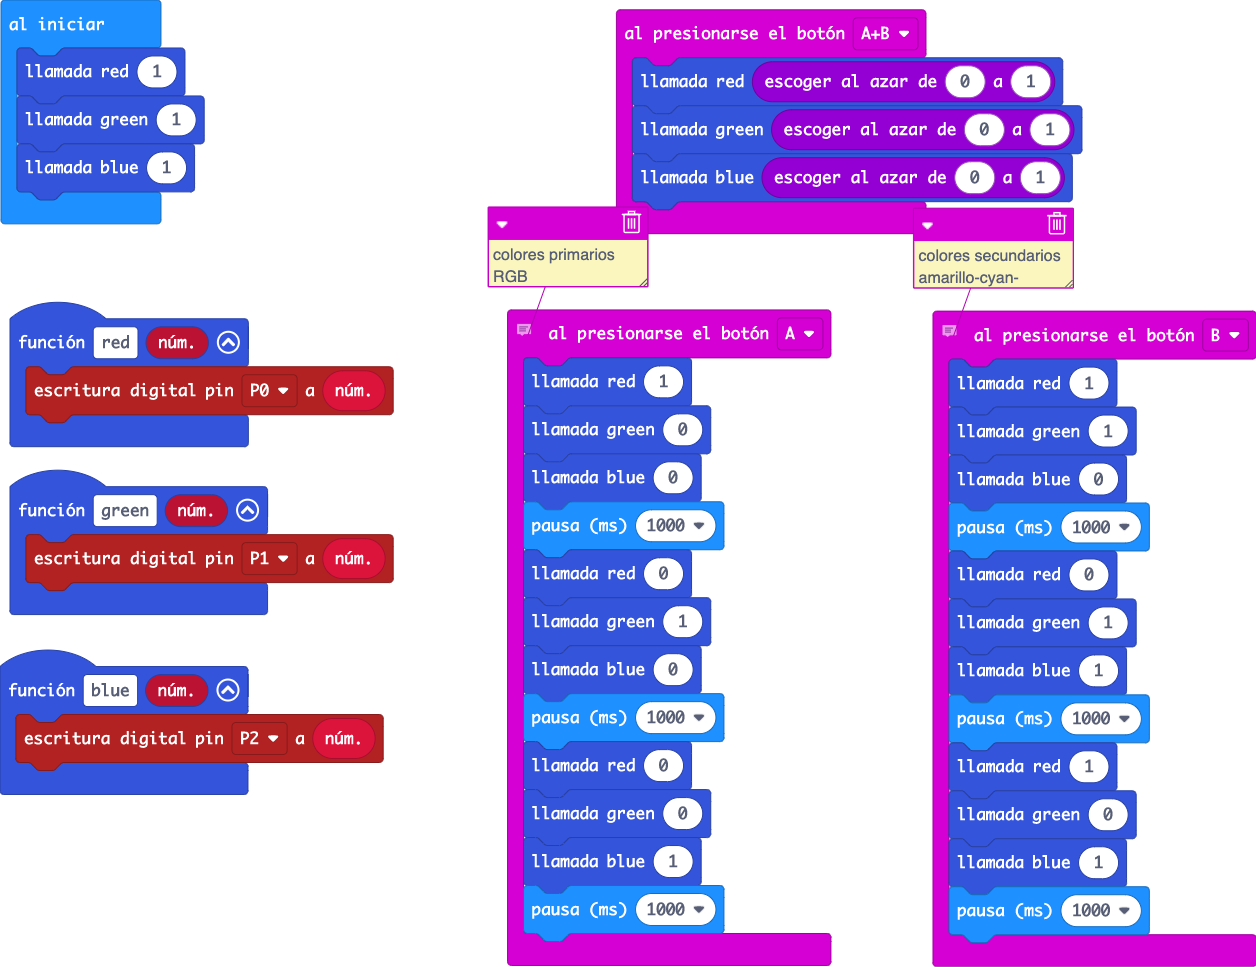
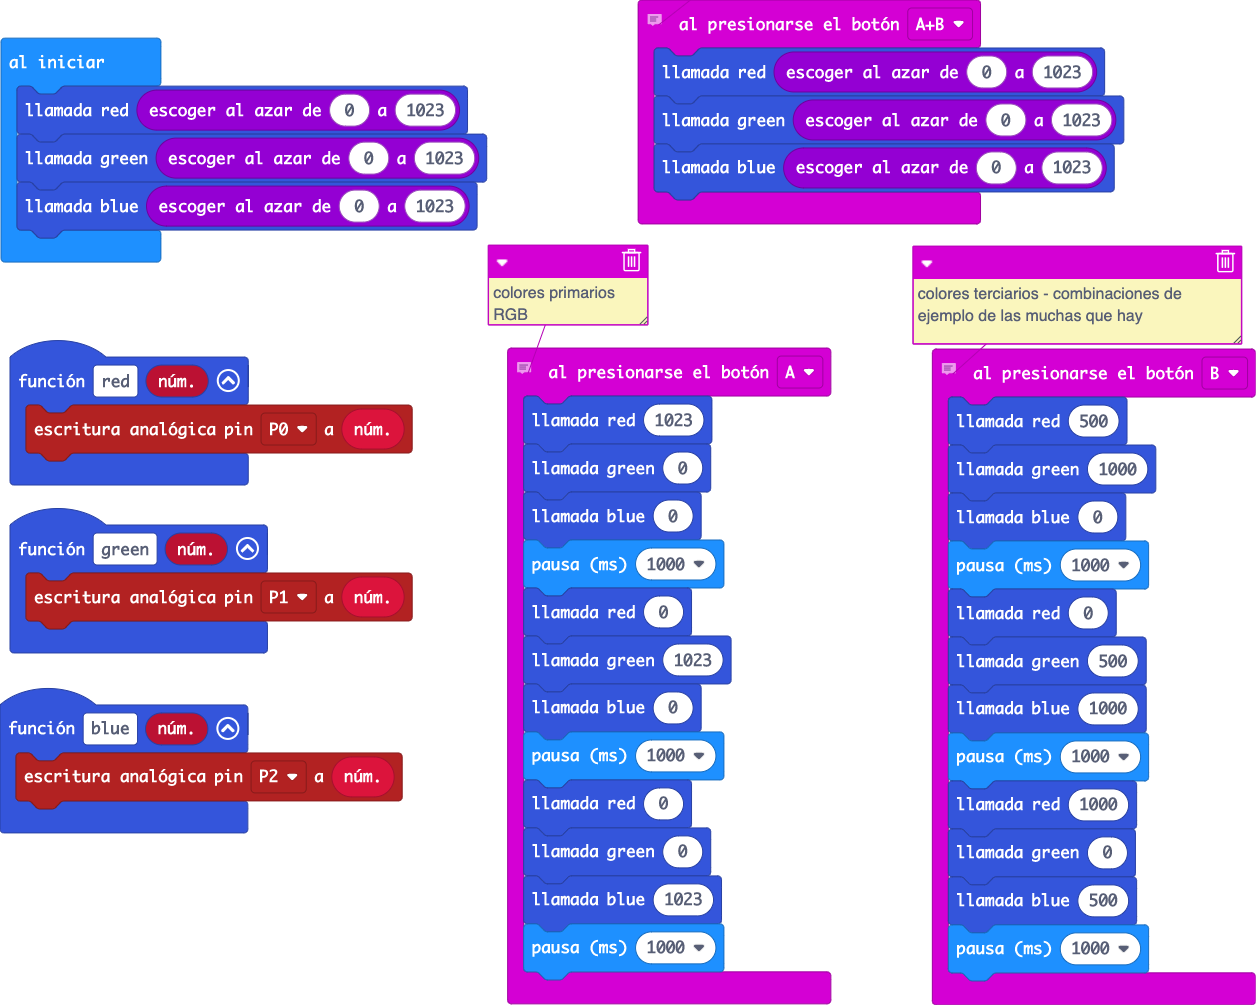
colore terciarios al azar

diff --git a/main.ts b/main.ts
@@ -1,47 +1,48 @@
 function green (núm: number) {
-    pins.digitalWritePin(DigitalPin.P1, núm)
+    pins.analogWritePin(AnalogPin.P1, núm)
 }
 // colores primarios RGB
 input.onButtonPressed(Button.A, function () {
-    red(1)
+    red(1023)
     green(0)
     blue(0)
     basic.pause(1000)
     red(0)
-    green(1)
+    green(1023)
     blue(0)
     basic.pause(1000)
     red(0)
     green(0)
-    blue(1)
+    blue(1023)
     basic.pause(1000)
 })
+// al azar
 input.onButtonPressed(Button.AB, function () {
-    red(randint(0, 1))
-    green(randint(0, 1))
-    blue(randint(0, 1))
+    red(randint(0, 1023))
+    green(randint(0, 1023))
+    blue(randint(0, 1023))
 })
-// colores secundarios amarillo-cyan-magenta
+// colores terciarios - combinaciones de ejemplo de las muchas que hay
 input.onButtonPressed(Button.B, function () {
-    red(1)
-    green(1)
+    red(500)
+    green(1000)
     blue(0)
     basic.pause(1000)
     red(0)
-    green(1)
-    blue(1)
+    green(500)
+    blue(1000)
     basic.pause(1000)
-    red(1)
+    red(1000)
     green(0)
-    blue(1)
+    blue(500)
     basic.pause(1000)
 })
 function blue (núm: number) {
-    pins.digitalWritePin(DigitalPin.P2, núm)
+    pins.analogWritePin(AnalogPin.P2, núm)
 }
 function red (núm: number) {
-    pins.digitalWritePin(DigitalPin.P0, núm)
+    pins.analogWritePin(AnalogPin.P0, núm)
 }
-red(1)
-green(1)
-blue(1)
+red(randint(0, 1023))
+green(randint(0, 1023))
+blue(randint(0, 1023))
